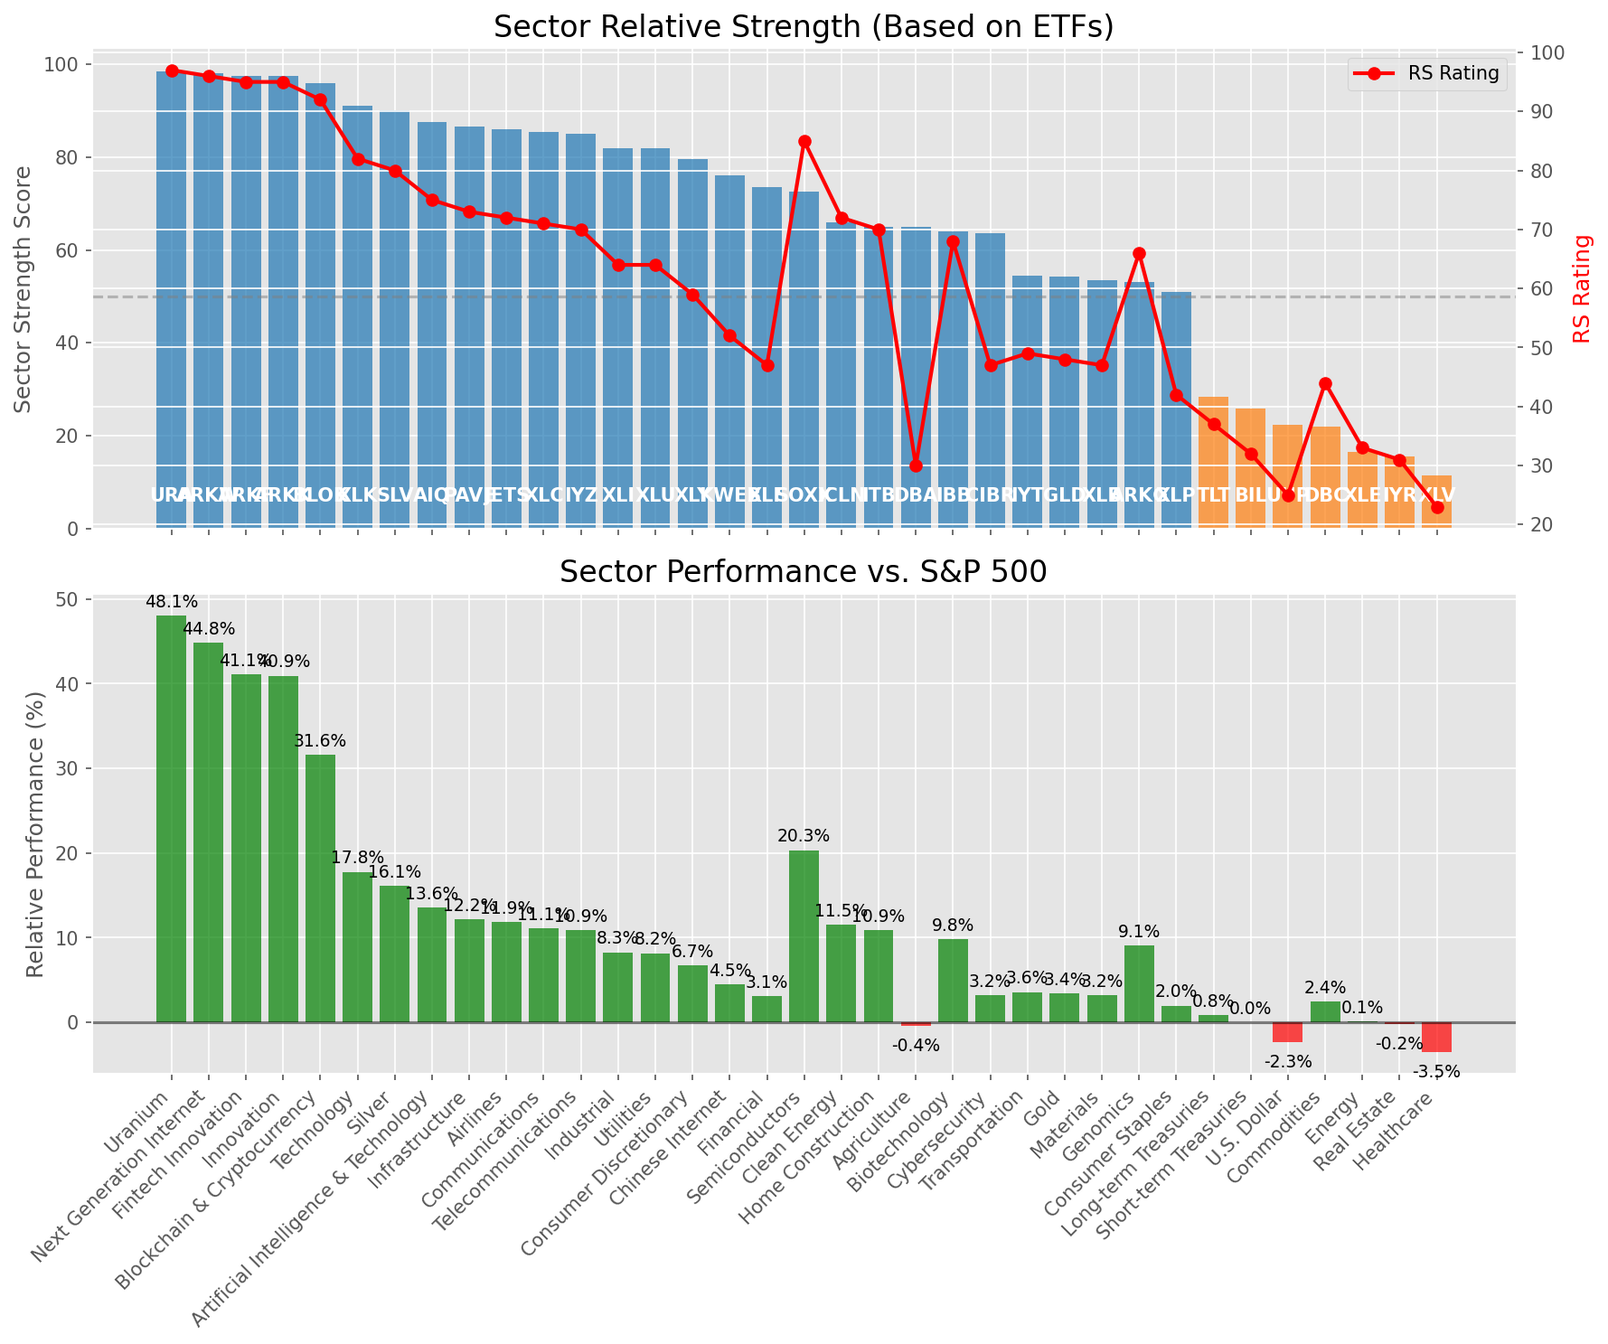
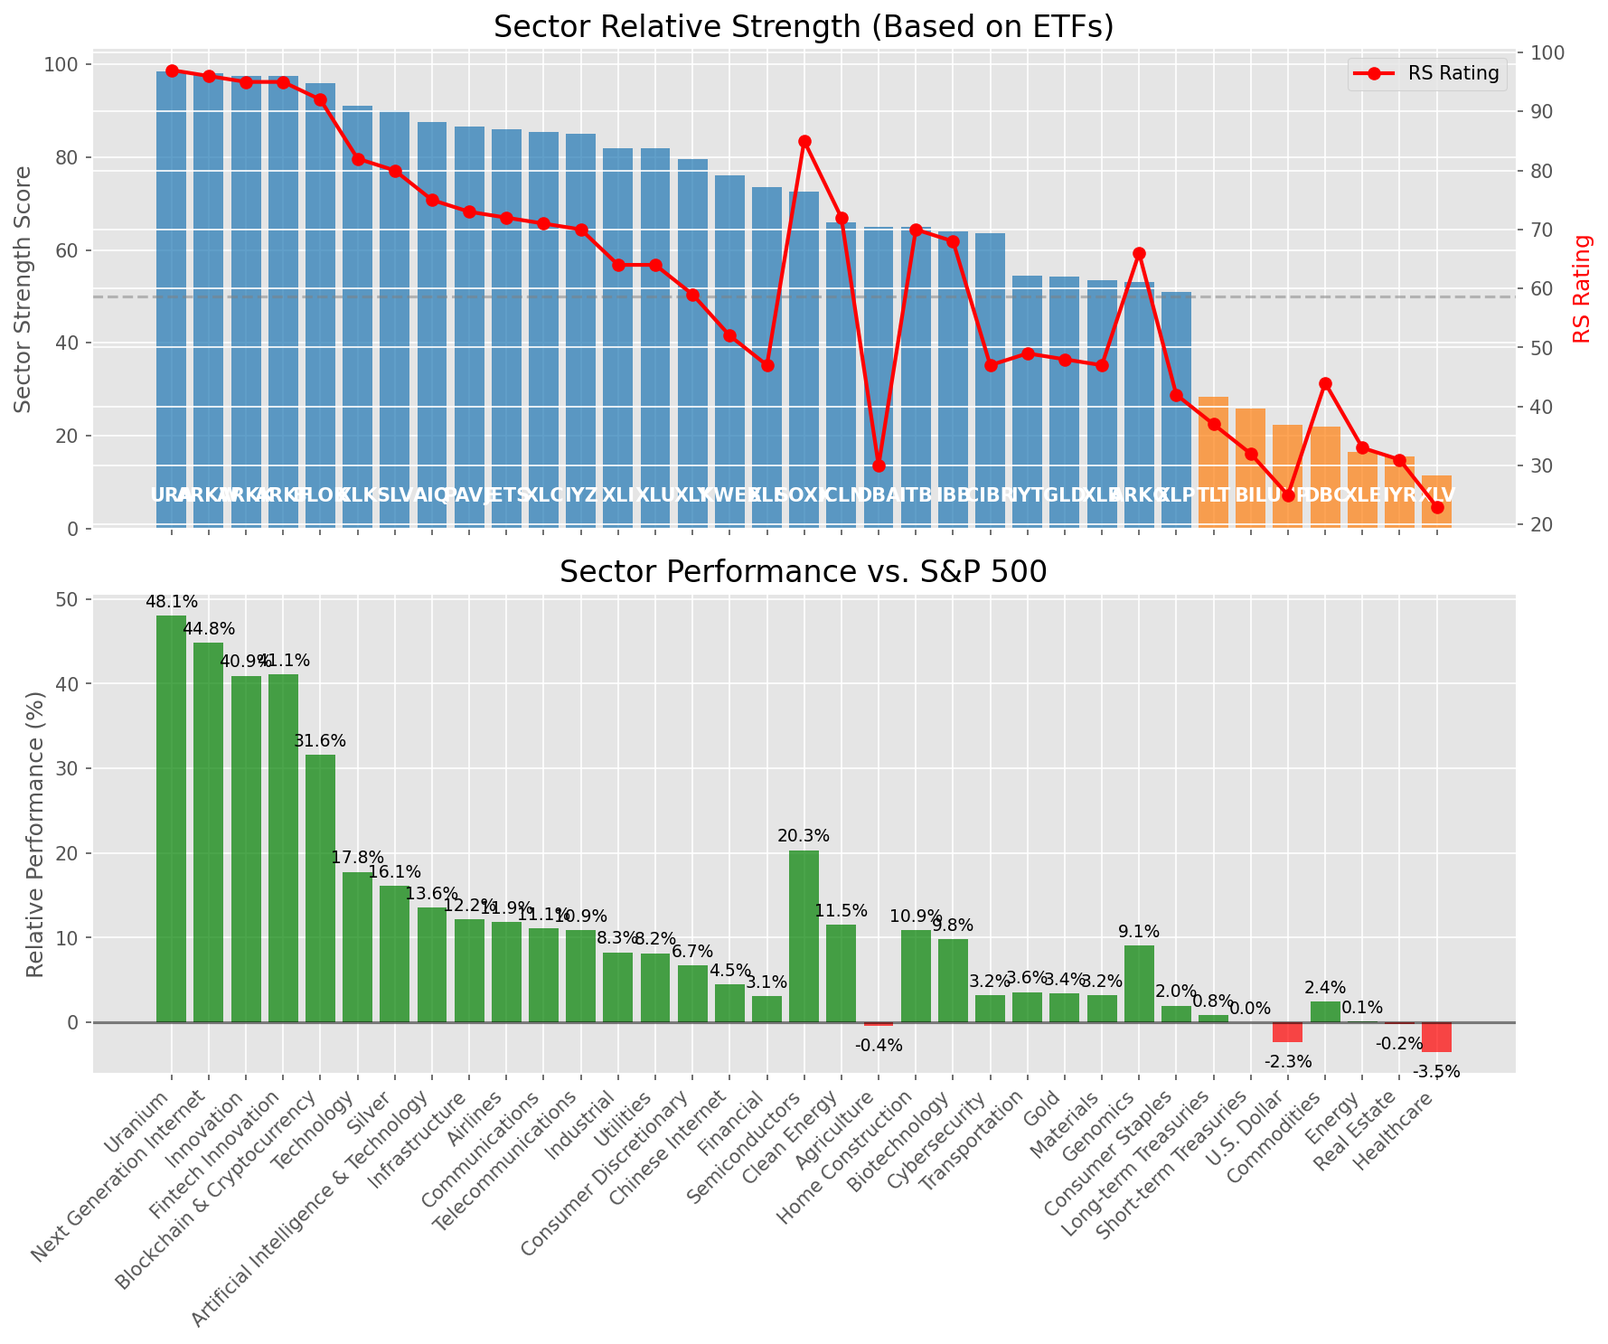
Add market report for 2025-08-12

diff --git a/oneil_relative_strength_report_2025-08-12.md b/oneil_relative_strength_report_2025-08-12.md
@@ -51,8 +51,8 @@ Based on William O'Neil's Relative Strength Methodology
 |-----|----------|-----------|-------------|--------------|-------|--------|
 | [URA](https://www.tradingview.com/chart/?symbol=URA) | 98.5 | 97.0 | 48.08% | 10d ✓, 50d ✓, 200d ✓ | ↗ | Uranium |
 | [ARKW](https://www.tradingview.com/chart/?symbol=ARKW) | 98.0 | 96.0 | 44.82% | 10d ✓, 50d ✓, 200d ✓ | ↗ | Next Generation Internet |
-| [ARKF](https://www.tradingview.com/chart/?symbol=ARKF) | 97.5 | 95.0 | 41.07% | 10d ✓, 50d ✓, 200d ✓ | ↗ | Fintech Innovation |
 | [ARKK](https://www.tradingview.com/chart/?symbol=ARKK) | 97.5 | 95.0 | 40.93% | 10d ✓, 50d ✓, 200d ✓ | ↗ | Innovation |
+| [ARKF](https://www.tradingview.com/chart/?symbol=ARKF) | 97.5 | 95.0 | 41.07% | 10d ✓, 50d ✓, 200d ✓ | ↗ | Fintech Innovation |
 | [BLOK](https://www.tradingview.com/chart/?symbol=BLOK) | 96.0 | 92.0 | 31.61% | 10d ✓, 50d ✓, 200d ✓ | ↗ | Blockchain & Cryptocurrency |
 | [XLK](https://www.tradingview.com/chart/?symbol=XLK) | 91.0 | 82.0 | 17.79% | 10d ✓, 50d ✓, 200d ✓ | ↗ | Technology |
 | [SLV](https://www.tradingview.com/chart/?symbol=SLV) | 90.0 | 80.0 | 16.13% | 10d ✓, 50d ✓, 200d ✓ | ↗ | Silver |
@@ -68,8 +68,8 @@ Based on William O'Neil's Relative Strength Methodology
 | [XLF](https://www.tradingview.com/chart/?symbol=XLF) | 73.5 | 47.0 | 3.13% | 10d ✓, 50d ✓, 200d ✓ | ↗ | Financial |
 | [SOXX](https://www.tradingview.com/chart/?symbol=SOXX) | 72.5 | 85.0 | 20.34% | 10d ✓, 50d ✓, 200d ✓ | ↘ | Semiconductors |
 | [ICLN](https://www.tradingview.com/chart/?symbol=ICLN) | 66.0 | 72.0 | 11.50% | 10d ✓, 50d ✓, 200d ✓ | ↘ | Clean Energy |
-| [ITB](https://www.tradingview.com/chart/?symbol=ITB) | 65.0 | 70.0 | 10.91% | 10d ✓, 50d ✓, 200d ✓ | ↘ | Home Construction |
 | [DBA](https://www.tradingview.com/chart/?symbol=DBA) | 65.0 | 30.0 | -0.37% | 10d ✓, 50d ✓, 200d ✓ | ↗ | Agriculture |
+| [ITB](https://www.tradingview.com/chart/?symbol=ITB) | 65.0 | 70.0 | 10.91% | 10d ✓, 50d ✓, 200d ✓ | ↘ | Home Construction |
 | [IBB](https://www.tradingview.com/chart/?symbol=IBB) | 64.0 | 68.0 | 9.79% | 10d ✓, 50d ✓, 200d ✓ | ↘ | Biotechnology |
 | [CIBR](https://www.tradingview.com/chart/?symbol=CIBR) | 63.6 | 47.0 | 3.17% | 10d ✓, 50d ✗, 200d ✓ | ↗ | Cybersecurity |
 | [IYT](https://www.tradingview.com/chart/?symbol=IYT) | 54.5 | 49.0 | 3.59% | 10d ✓, 50d ✓, 200d ✓ | ↘ | Transportation |
@@ -98,7 +98,7 @@ This table shows the relative strength metrics for different market sectors base
 
 ### **Current Sector Leadership**
 
-The current market leadership is coming from the following sectors: **Uranium, Next Generation Internet, Fintech Innovation**.
+The current market leadership is coming from the following sectors: **Uranium, Next Generation Internet, Innovation**.
 
 The **Uranium** sector (represented by **URA**) is showing particularly strong relative strength with an RS rating of 97.0 and performance of 48.08% vs. the S&P 500. This sector is trading above its 10-day, 50-day, 200-day moving average(s). Investors should consider focusing on high RS stocks within these leading sectors for potential outperformance.
 
@@ -110,60 +110,60 @@ The following 90 stocks show exceptional relative strength:
 
 | RS Rating | Buy Score | Current Price | Chart | Name | Ticker |
 |-----------|-----------|---------------|-------|------|--------|
-| 100 | 100 | $125.38 | [Chart](https://www.tradingview.com/chart/?symbol=CRDO) | Credo Technology Group Holding Ltd Ordinary Shares | CRDO |
-| 100 | 100 | $213.45 | [Chart](https://www.tradingview.com/chart/?symbol=CLS) | Celestica, Inc. | CLS |
-| 100 | 100 | $69.14 | [Chart](https://www.tradingview.com/chart/?symbol=KTOS) | Kratos Defense & Security Solutions, Inc. | KTOS |
 | 100 | 100 | $114.09 | [Chart](https://www.tradingview.com/chart/?symbol=HOOD) | Robinhood Markets, Inc. Class A Common Stock | HOOD |
+| 100 | 100 | $213.45 | [Chart](https://www.tradingview.com/chart/?symbol=CLS) | Celestica, Inc. | CLS |
+| 100 | 100 | $125.38 | [Chart](https://www.tradingview.com/chart/?symbol=CRDO) | Credo Technology Group Holding Ltd Ordinary Shares | CRDO |
 | 100 | 100 | $74.95 | [Chart](https://www.tradingview.com/chart/?symbol=MP) | MP Materials Corp. | MP |
+| 100 | 100 | $69.14 | [Chart](https://www.tradingview.com/chart/?symbol=KTOS) | Kratos Defense & Security Solutions, Inc. | KTOS |
 | 99 | 100 | $93.63 | [Chart](https://www.tradingview.com/chart/?symbol=GDXU) | MicroSectors Gold Miners 3x Leveraged ETN | GDXU |
 | 99 | 100 | $96.46 | [Chart](https://www.tradingview.com/chart/?symbol=RYTM) | Rhythm Pharmaceuticals, Inc. Common Stock | RYTM |
 | 99 | 100 | $83.55 | [Chart](https://www.tradingview.com/chart/?symbol=LIF) | Life360, Inc. Common Stock | LIF |
-| 98 | 100 | $191.75 | [Chart](https://www.tradingview.com/chart/?symbol=COOP) | Mr. Cooper Group Inc. Common Stock | COOP |
+| 98 | 100 | $46.63 | [Chart](https://www.tradingview.com/chart/?symbol=TTMI) | TTM Technologies Inc | TTMI |
 | 98 | 100 | $380.61 | [Chart](https://www.tradingview.com/chart/?symbol=TLN) | Talen Energy Corporation Common Stock | TLN |
 | 98 | 100 | $657.44 | [Chart](https://www.tradingview.com/chart/?symbol=GEV) | GE Vernova Inc. | GEV |
+| 98 | 100 | $191.75 | [Chart](https://www.tradingview.com/chart/?symbol=COOP) | Mr. Cooper Group Inc. Common Stock | COOP |
 | 98 | 100 | $186.97 | [Chart](https://www.tradingview.com/chart/?symbol=PLTR) | Palantir Technologies Inc. Class A Common Stock | PLTR |
-| 98 | 100 | $46.63 | [Chart](https://www.tradingview.com/chart/?symbol=TTMI) | TTM Technologies Inc | TTMI |
-| 97 | 100 | $24.10 | [Chart](https://www.tradingview.com/chart/?symbol=LQDA) | Liquidia Corporation Common Stock | LQDA |
-| 97 | 100 | $123.84 | [Chart](https://www.tradingview.com/chart/?symbol=SANM) | Sanmina  Corp | SANM |
 | 97 | 100 | $165.18 | [Chart](https://www.tradingview.com/chart/?symbol=FUTU) | Futu Holdings Limited American Depositary Shares | FUTU |
+| 97 | 100 | $123.84 | [Chart](https://www.tradingview.com/chart/?symbol=SANM) | Sanmina  Corp | SANM |
+| 97 | 100 | $24.10 | [Chart](https://www.tradingview.com/chart/?symbol=LQDA) | Liquidia Corporation Common Stock | LQDA |
 | 96 | 100 | $57.25 | [Chart](https://www.tradingview.com/chart/?symbol=AU) | AngloGold Ashanti plc | AU |
-| 96 | 100 | $25.45 | [Chart](https://www.tradingview.com/chart/?symbol=ACAD) | Acadia Pharmaceuticals Inc. | ACAD |
 | 96 | 100 | $36.82 | [Chart](https://www.tradingview.com/chart/?symbol=NNE) | Nano Nuclear Energy Inc. Common Stock | NNE |
-| 96 | 100 | $68.02 | [Chart](https://www.tradingview.com/chart/?symbol=MRCY) | Mercury Systems Inc. | MRCY |
 | 96 | 100 | $162.34 | [Chart](https://www.tradingview.com/chart/?symbol=ARKW) | ARK Next Generation Internet ETF | ARKW |
-| 95 | 100 | $52.10 | [Chart](https://www.tradingview.com/chart/?symbol=REVG) | REV Group, Inc. | REVG |
+| 96 | 100 | $68.02 | [Chart](https://www.tradingview.com/chart/?symbol=MRCY) | Mercury Systems Inc. | MRCY |
+| 96 | 100 | $25.45 | [Chart](https://www.tradingview.com/chart/?symbol=ACAD) | Acadia Pharmaceuticals Inc. | ACAD |
 | 95 | 100 | $32.01 | [Chart](https://www.tradingview.com/chart/?symbol=PAAS) | Pan American Silver Corp. | PAAS |
-| 95 | 100 | $97.06 | [Chart](https://www.tradingview.com/chart/?symbol=EBAY) | eBay Inc | EBAY |
-| 95 | 100 | $57.92 | [Chart](https://www.tradingview.com/chart/?symbol=BTI) | British American Tobacco p.l.c. American Depositary Shares, American Depositary Shares, each representing one Ordinary Share | BTI |
 | 95 | 100 | $55.27 | [Chart](https://www.tradingview.com/chart/?symbol=ARKF) | ARK Fintech Innovation ETF | ARKF |
+| 95 | 100 | $52.10 | [Chart](https://www.tradingview.com/chart/?symbol=REVG) | REV Group, Inc. | REVG |
 | 95 | 100 | $98.98 | [Chart](https://www.tradingview.com/chart/?symbol=TPB) | Turning Point Brands, Inc. | TPB |
-| 94 | 100 | $67.63 | [Chart](https://www.tradingview.com/chart/?symbol=IBKR) | Interactive Brokers Group, Inc. Class A Common Stock | IBKR |
-| 94 | 100 | $30.72 | [Chart](https://www.tradingview.com/chart/?symbol=OR) | OR Royalties Inc. | OR |
-| 94 | 100 | $264.32 | [Chart](https://www.tradingview.com/chart/?symbol=DASH) | DoorDash, Inc. Class A Common Stock | DASH |
+| 95 | 100 | $57.92 | [Chart](https://www.tradingview.com/chart/?symbol=BTI) | British American Tobacco p.l.c. American Depositary Shares, American Depositary Shares, each representing one Ordinary Share | BTI |
+| 95 | 100 | $97.06 | [Chart](https://www.tradingview.com/chart/?symbol=EBAY) | eBay Inc | EBAY |
 | 94 | 100 | $121.98 | [Chart](https://www.tradingview.com/chart/?symbol=PPLT) | abrdn Physical Platinum Shares ETF | PPLT |
 | 94 | 100 | $54.57 | [Chart](https://www.tradingview.com/chart/?symbol=SIL) | Global X Silver Miners ETF (NEW) | SIL |
+| 94 | 100 | $30.72 | [Chart](https://www.tradingview.com/chart/?symbol=OR) | OR Royalties Inc. | OR |
 | 94 | 100 | $49.09 | [Chart](https://www.tradingview.com/chart/?symbol=BBIO) | BridgeBio Pharma, Inc. Common Stock | BBIO |
-| 93 | 100 | $467.00 | [Chart](https://www.tradingview.com/chart/?symbol=APP) | Applovin Corporation Class A Common Stock | APP |
+| 94 | 100 | $264.32 | [Chart](https://www.tradingview.com/chart/?symbol=DASH) | DoorDash, Inc. Class A Common Stock | DASH |
+| 94 | 100 | $67.63 | [Chart](https://www.tradingview.com/chart/?symbol=IBKR) | Interactive Brokers Group, Inc. Class A Common Stock | IBKR |
 | 93 | 100 | $110.86 | [Chart](https://www.tradingview.com/chart/?symbol=TPR) | Tapestry, Inc. Common Stock | TPR |
-| 92 | 100 | $55.10 | [Chart](https://www.tradingview.com/chart/?symbol=GH) | Guardant Health, Inc. Common Stock | GH |
-| 92 | 100 | $111.85 | [Chart](https://www.tradingview.com/chart/?symbol=APH) | Amphenol Corporation | APH |
-| 92 | 100 | $58.42 | [Chart](https://www.tradingview.com/chart/?symbol=CALX) | CALIX, INC. | CALX |
-| 92 | 100 | $26.74 | [Chart](https://www.tradingview.com/chart/?symbol=TFPM) | Triple Flag Precious Metals Corp. | TFPM |
+| 93 | 100 | $467.00 | [Chart](https://www.tradingview.com/chart/?symbol=APP) | Applovin Corporation Class A Common Stock | APP |
 | 92 | 100 | $36.30 | [Chart](https://www.tradingview.com/chart/?symbol=DB) | Deutsche Bank Aktiengesellschaft | DB |
-| 92 | 100 | $59.70 | [Chart](https://www.tradingview.com/chart/?symbol=VIK) | Viking Holdings Ltd | VIK |
+| 92 | 100 | $58.42 | [Chart](https://www.tradingview.com/chart/?symbol=CALX) | CALIX, INC. | CALX |
+| 92 | 100 | $111.85 | [Chart](https://www.tradingview.com/chart/?symbol=APH) | Amphenol Corporation | APH |
+| 92 | 100 | $55.10 | [Chart](https://www.tradingview.com/chart/?symbol=GH) | Guardant Health, Inc. Common Stock | GH |
+| 92 | 100 | $26.74 | [Chart](https://www.tradingview.com/chart/?symbol=TFPM) | Triple Flag Precious Metals Corp. | TFPM |
 | 92 | 100 | $22.29 | [Chart](https://www.tradingview.com/chart/?symbol=MIR) | Mirion Technologies, Inc. | MIR |
-| 91 | 100 | $28.64 | [Chart](https://www.tradingview.com/chart/?symbol=KAR) | OPENLANE, Inc | KAR |
+| 92 | 100 | $59.70 | [Chart](https://www.tradingview.com/chart/?symbol=VIK) | Viking Holdings Ltd | VIK |
 | 91 | 100 | $23.22 | [Chart](https://www.tradingview.com/chart/?symbol=MAG) | MAG Silver Corp. | MAG |
+| 91 | 100 | $28.64 | [Chart](https://www.tradingview.com/chart/?symbol=KAR) | OPENLANE, Inc | KAR |
 | 91 | 100 | $501.65 | [Chart](https://www.tradingview.com/chart/?symbol=CW) | Curtiss-Wright Corp. | CW |
-| 90 | 100 | $18.28 | [Chart](https://www.tradingview.com/chart/?symbol=BVN) | Compania de Minas Buenaventura S.A. | BVN |
-| 90 | 100 | $195.98 | [Chart](https://www.tradingview.com/chart/?symbol=ASND) | Ascendis Pharma A/S American Depositary Shares | ASND |
-| 90 | 100 | $95.74 | [Chart](https://www.tradingview.com/chart/?symbol=C) | Citigroup Inc. | C |
-| 90 | 100 | $279.63 | [Chart](https://www.tradingview.com/chart/?symbol=GE) | GE Aerospace | GE |
-| 90 | 100 | $135.38 | [Chart](https://www.tradingview.com/chart/?symbol=AEM) | Agnico Eagle Mines Ltd. | AEM |
-| 90 | 100 | $43.30 | [Chart](https://www.tradingview.com/chart/?symbol=LTM) | LATAM Airlines Group S.A. American Depositary Shares (each representing two thousand (2,000) shares of Common Stock) | LTM |
 | 90 | 100 | $164.91 | [Chart](https://www.tradingview.com/chart/?symbol=VSEC) | VSE Corp | VSEC |
-| 89 | 100 | $273.62 | [Chart](https://www.tradingview.com/chart/?symbol=IDCC) | InterDigital, Inc. | IDCC |
+| 90 | 100 | $135.38 | [Chart](https://www.tradingview.com/chart/?symbol=AEM) | Agnico Eagle Mines Ltd. | AEM |
+| 90 | 100 | $18.28 | [Chart](https://www.tradingview.com/chart/?symbol=BVN) | Compania de Minas Buenaventura S.A. | BVN |
+| 90 | 100 | $279.63 | [Chart](https://www.tradingview.com/chart/?symbol=GE) | GE Aerospace | GE |
+| 90 | 100 | $195.98 | [Chart](https://www.tradingview.com/chart/?symbol=ASND) | Ascendis Pharma A/S American Depositary Shares | ASND |
+| 90 | 100 | $43.30 | [Chart](https://www.tradingview.com/chart/?symbol=LTM) | LATAM Airlines Group S.A. American Depositary Shares (each representing two thousand (2,000) shares of Common Stock) | LTM |
+| 90 | 100 | $95.74 | [Chart](https://www.tradingview.com/chart/?symbol=C) | Citigroup Inc. | C |
 | 89 | 100 | $28.99 | [Chart](https://www.tradingview.com/chart/?symbol=SRAD) | Sportradar Group AG Class A Ordinary Shares | SRAD |
+| 89 | 100 | $273.62 | [Chart](https://www.tradingview.com/chart/?symbol=IDCC) | InterDigital, Inc. | IDCC |
 | 88 | 100 | $58.21 | [Chart](https://www.tradingview.com/chart/?symbol=GDX) | VanEck Gold Miners ETF | GDX |
 | 86 | 100 | $20.41 | [Chart](https://www.tradingview.com/chart/?symbol=BCS) | Barclays PLC | BCS |
 | 89 | 99 | $32.11 | [Chart](https://www.tradingview.com/chart/?symbol=IIIV) | i3 Verticals, Inc. Class A Common Stock | IIIV |
@@ -178,8 +178,8 @@ The following 90 stocks show exceptional relative strength:
 | 85 | 98 | $48.85 | [Chart](https://www.tradingview.com/chart/?symbol=CIB) | Grupo Cibest S.A. American Depositary Shares (each representing four (4) Preferred Shares) | CIB |
 | 87 | 97 | $66.66 | [Chart](https://www.tradingview.com/chart/?symbol=MAIN) | Main Street Capital Corporation | MAIN |
 | 86 | 96 | $52.18 | [Chart](https://www.tradingview.com/chart/?symbol=FHI) | Federated Hermes, Inc. | FHI |
-| 84 | 96 | $91.08 | [Chart](https://www.tradingview.com/chart/?symbol=LLYVK) | Liberty Media Corporation Series C Liberty Live Common Stock | LLYVK |
 | 84 | 96 | $62.14 | [Chart](https://www.tradingview.com/chart/?symbol=SHLD) | Global X Defense Tech ETF | SHLD |
+| 84 | 96 | $91.08 | [Chart](https://www.tradingview.com/chart/?symbol=LLYVK) | Liberty Media Corporation Series C Liberty Live Common Stock | LLYVK |
 | 83 | 96 | $26.57 | [Chart](https://www.tradingview.com/chart/?symbol=LAUR) | Laureate Education, Inc. Common Stock | LAUR |
 | 85 | 95 | $48.45 | [Chart](https://www.tradingview.com/chart/?symbol=FAST) | Fastenal Co | FAST |
 | 85 | 95 | $184.39 | [Chart](https://www.tradingview.com/chart/?symbol=MTZ) | MasTec, Inc. | MTZ |
@@ -193,12 +193,12 @@ The following 90 stocks show exceptional relative strength:
 | 81 | 93 | $35.47 | [Chart](https://www.tradingview.com/chart/?symbol=APG) | APi Group Corporation | APG |
 | 80 | 93 | $47.38 | [Chart](https://www.tradingview.com/chart/?symbol=EWP) | iShares MSCI Spain ETF | EWP |
 | 82 | 92 | $12.85 | [Chart](https://www.tradingview.com/chart/?symbol=PSLV) | Sprott Physical Silver Trust | PSLV |
-| 81 | 92 | $67.95 | [Chart](https://www.tradingview.com/chart/?symbol=IBIT) | iShares Bitcoin Trust ETF | IBIT |
 | 81 | 92 | $232.61 | [Chart](https://www.tradingview.com/chart/?symbol=BA) | Boeing Company | BA |
+| 81 | 92 | $67.95 | [Chart](https://www.tradingview.com/chart/?symbol=IBIT) | iShares Bitcoin Trust ETF | IBIT |
 | 80 | 92 | $326.47 | [Chart](https://www.tradingview.com/chart/?symbol=FFIV) | F5, Inc. Common Stock | FFIV |
+| 80 | 91 | $34.41 | [Chart](https://www.tradingview.com/chart/?symbol=SLV) | iShares Silver Trust | SLV |
 | 80 | 91 | $36.11 | [Chart](https://www.tradingview.com/chart/?symbol=SIVR) | abrdn Physical Silver Shares ETF | SIVR |
 | 80 | 91 | $118.52 | [Chart](https://www.tradingview.com/chart/?symbol=SPMO) | Invesco S&P 500 Momentum ETF | SPMO |
-| 80 | 91 | $34.41 | [Chart](https://www.tradingview.com/chart/?symbol=SLV) | iShares Silver Trust | SLV |
 | 80 | 90 | $272.75 | [Chart](https://www.tradingview.com/chart/?symbol=WTS) | Watts Water Technologies, Inc. Class A | WTS |
 
 ---
@@ -215,11 +215,11 @@ The following 60 stocks show deteriorating relative strength:
 | 2 | 100 | $24.88 | [Chart](https://www.tradingview.com/chart/?symbol=CRI) | Carter's Inc. | CRI |
 | 3 | 100 | $23.32 | [Chart](https://www.tradingview.com/chart/?symbol=ZSL) | ProShares UltraShort Silver | ZSL |
 | 4 | 100 | $43.26 | [Chart](https://www.tradingview.com/chart/?symbol=OXM) | Oxford Industries, Inc. | OXM |
-| 6 | 100 | $23.68 | [Chart](https://www.tradingview.com/chart/?symbol=CRTO) | Criteo S.A. | CRTO |
 | 6 | 100 | $16.30 | [Chart](https://www.tradingview.com/chart/?symbol=S) | SentinelOne, Inc. | S |
+| 6 | 100 | $23.68 | [Chart](https://www.tradingview.com/chart/?symbol=CRTO) | Criteo S.A. | CRTO |
 | 8 | 100 | $12.47 | [Chart](https://www.tradingview.com/chart/?symbol=ARDT) | Ardent Health, Inc. | ARDT |
-| 13 | 100 | $32.12 | [Chart](https://www.tradingview.com/chart/?symbol=JD) | JD.com, Inc. | JD |
 | 13 | 100 | $13.96 | [Chart](https://www.tradingview.com/chart/?symbol=VRE) | Veris Residential, Inc. | VRE |
+| 13 | 100 | $32.12 | [Chart](https://www.tradingview.com/chart/?symbol=JD) | JD.com, Inc. | JD |
 | 14 | 100 | $16.50 | [Chart](https://www.tradingview.com/chart/?symbol=CTO) | CTO Realty Growth, Inc. | CTO |
 | 3 | 99 | $13.91 | [Chart](https://www.tradingview.com/chart/?symbol=CLBT) | Cellebrite DI Ltd. Class A Ordinary Shares | CLBT |
 | 7 | 99 | $39.02 | [Chart](https://www.tradingview.com/chart/?symbol=BILL) | BILL Holdings, Inc. | BILL |
@@ -231,9 +231,9 @@ The following 60 stocks show deteriorating relative strength:
 | 15 | 97 | $24.02 | [Chart](https://www.tradingview.com/chart/?symbol=DXD) | ProShares UltraShort Dow 30 | DXD |
 | 6 | 96 | $214.60 | [Chart](https://www.tradingview.com/chart/?symbol=WDAY) | Workday, Inc. Class A Common Stock | WDAY |
 | 17 | 96 | $25.39 | [Chart](https://www.tradingview.com/chart/?symbol=FCPT) | Four Corners Property Trust, Inc. | FCPT |
-| 15 | 94 | $38.46 | [Chart](https://www.tradingview.com/chart/?symbol=SH) | ProShares Short S&P500 | SH |
 | 16 | 94 | $36.82 | [Chart](https://www.tradingview.com/chart/?symbol=VNO) | Vornado Realty Trust | VNO |
 | 13 | 93 | $15.10 | [Chart](https://www.tradingview.com/chart/?symbol=PLSE) | Pulse Biosciences, Inc Common Stock (DE) | PLSE |
+| 15 | 93 | $38.46 | [Chart](https://www.tradingview.com/chart/?symbol=SH) | ProShares Short S&P500 | SH |
 | 19 | 93 | $46.29 | [Chart](https://www.tradingview.com/chart/?symbol=EDU) | New Oriental Education and Technology Group, Inc. American Depositary Shares (each representing ten (10) Common Shares) | EDU |
 | 13 | 92 | $34.25 | [Chart](https://www.tradingview.com/chart/?symbol=AMH) | AMERICAN HOMES 4 RENT | AMH |
 | 19 | 92 | $48.28 | [Chart](https://www.tradingview.com/chart/?symbol=FR) | First Industrial Realty Trust, Inc. | FR |
@@ -253,12 +253,12 @@ The following 60 stocks show deteriorating relative strength:
 | 23 | 82 | $12.10 | [Chart](https://www.tradingview.com/chart/?symbol=RQI) | COHEN & STEERS QUALITY INCOME REALTY FUND, INC. COMMON SHARES | RQI |
 | 24 | 81 | $35.04 | [Chart](https://www.tradingview.com/chart/?symbol=FFIN) | First Financial Bankshares Inc | FFIN |
 | 28 | 81 | $45.37 | [Chart](https://www.tradingview.com/chart/?symbol=SON) | Sonoco Products Company | SON |
-| 27 | 79 | $44.27 | [Chart](https://www.tradingview.com/chart/?symbol=SW) | Smurfit Westrock plc | SW |
 | 22 | 78 | $25.45 | [Chart](https://www.tradingview.com/chart/?symbol=DOG) | ProShares Short Dow30 | DOG |
 | 27 | 77 | $15.72 | [Chart](https://www.tradingview.com/chart/?symbol=MARA) | MARA Holdings, Inc. Common Stock | MARA |
 | 30 | 77 | $95.85 | [Chart](https://www.tradingview.com/chart/?symbol=RWR) | SPDR Dow Jones REIT ETF | RWR |
 | 35 | 77 | $37.62 | [Chart](https://www.tradingview.com/chart/?symbol=FLIN) | Franklin FTSE India ETF | FLIN |
 | 38 | 77 | $15.37 | [Chart](https://www.tradingview.com/chart/?symbol=FXN) | First Trust Energy AlphaDEX Fund | FXN |
+| 27 | 76 | $44.27 | [Chart](https://www.tradingview.com/chart/?symbol=SW) | Smurfit Westrock plc | SW |
 | 30 | 76 | $88.97 | [Chart](https://www.tradingview.com/chart/?symbol=VNQ) | Vanguard Real Estate ETF | VNQ |
 | 35 | 76 | $13.19 | [Chart](https://www.tradingview.com/chart/?symbol=MED) | Medifast, Inc. | MED |
 | 28 | 74 | $11.22 | [Chart](https://www.tradingview.com/chart/?symbol=NFBK) | Northfield Bancorp, Inc. | NFBK |
